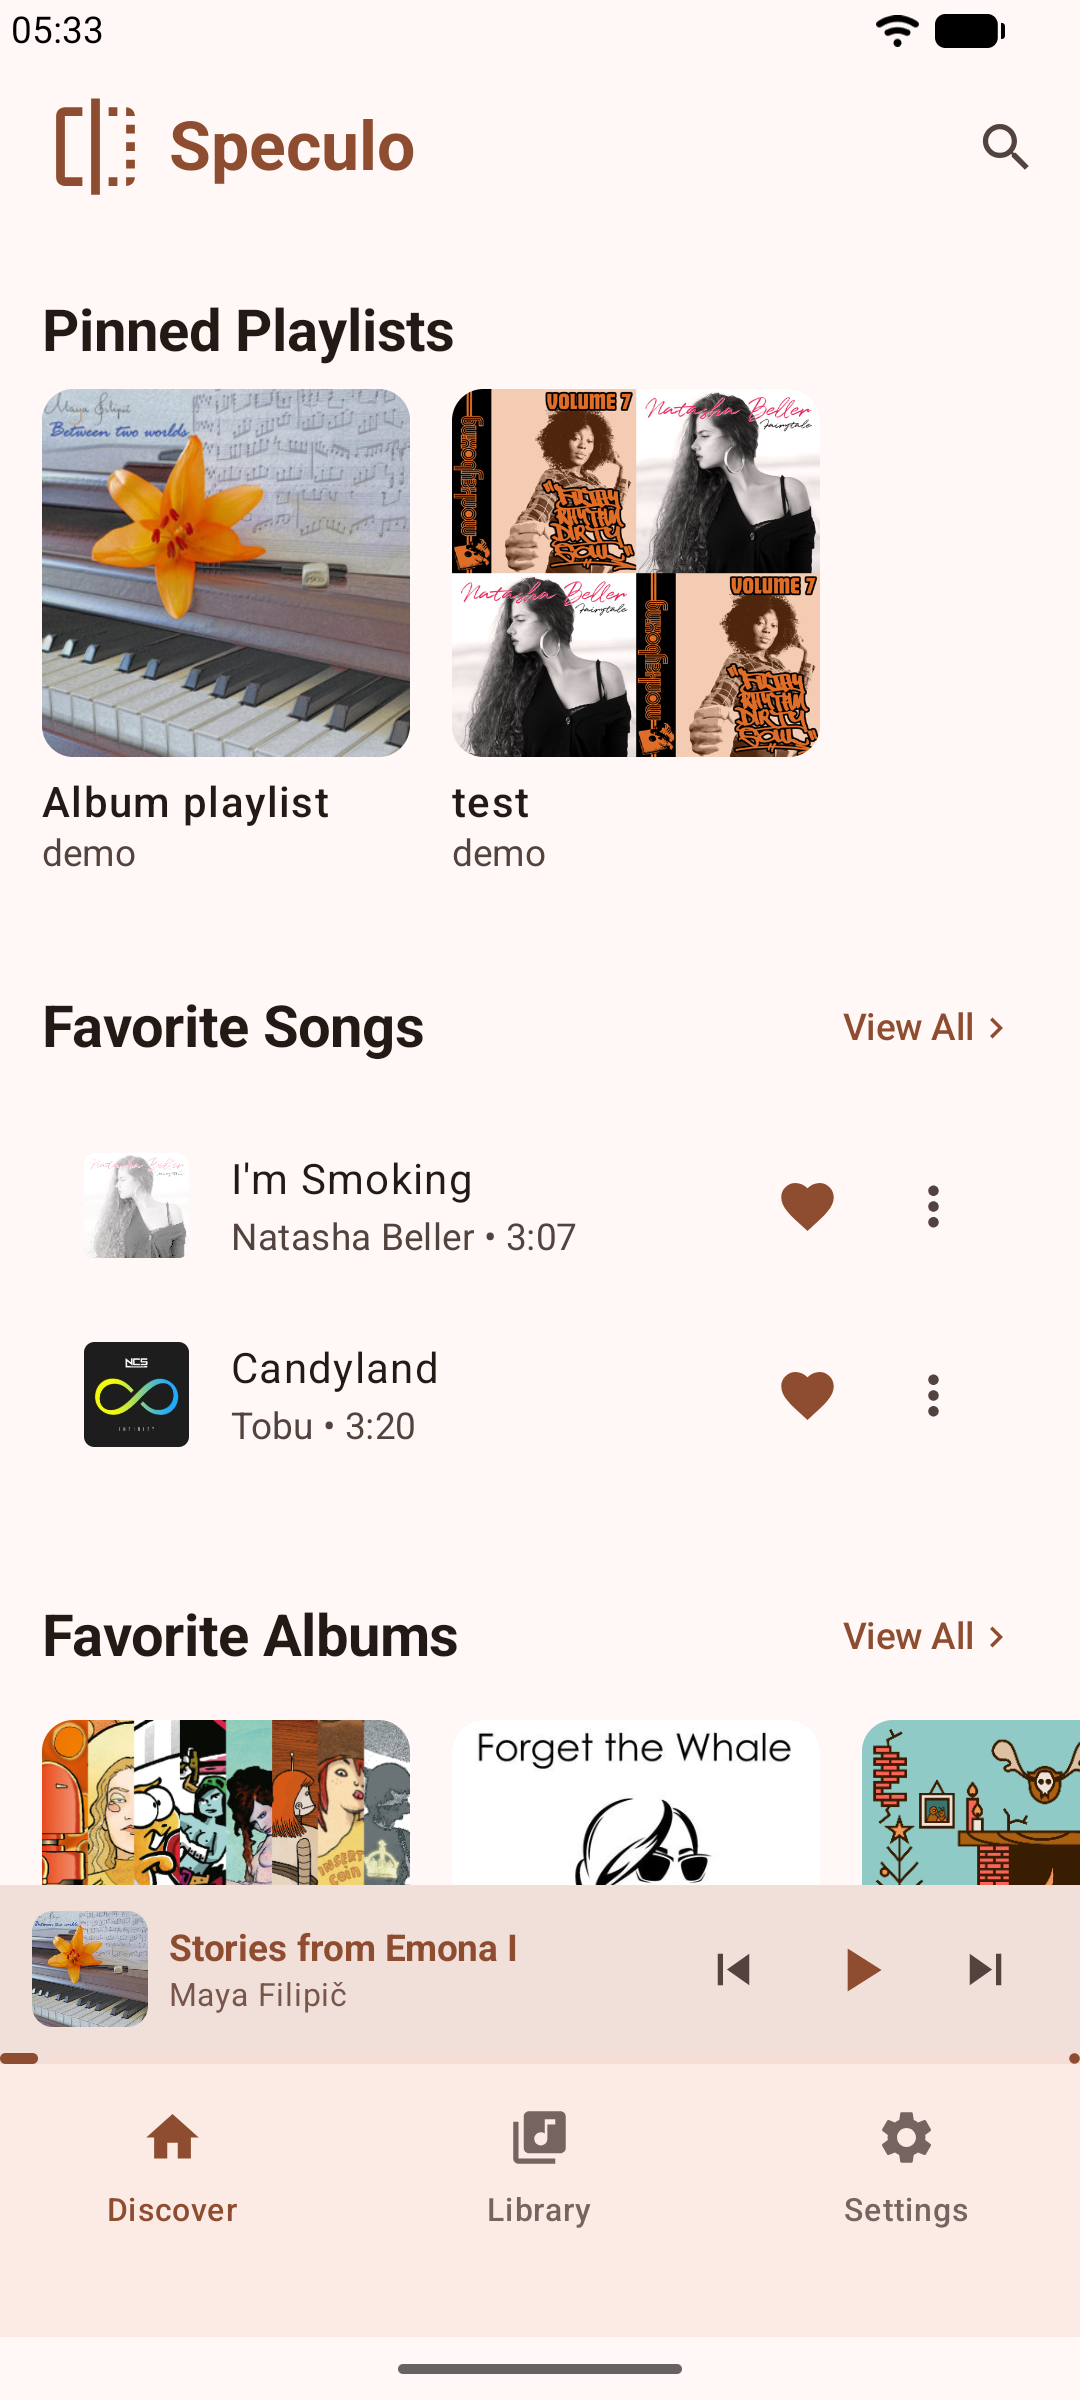
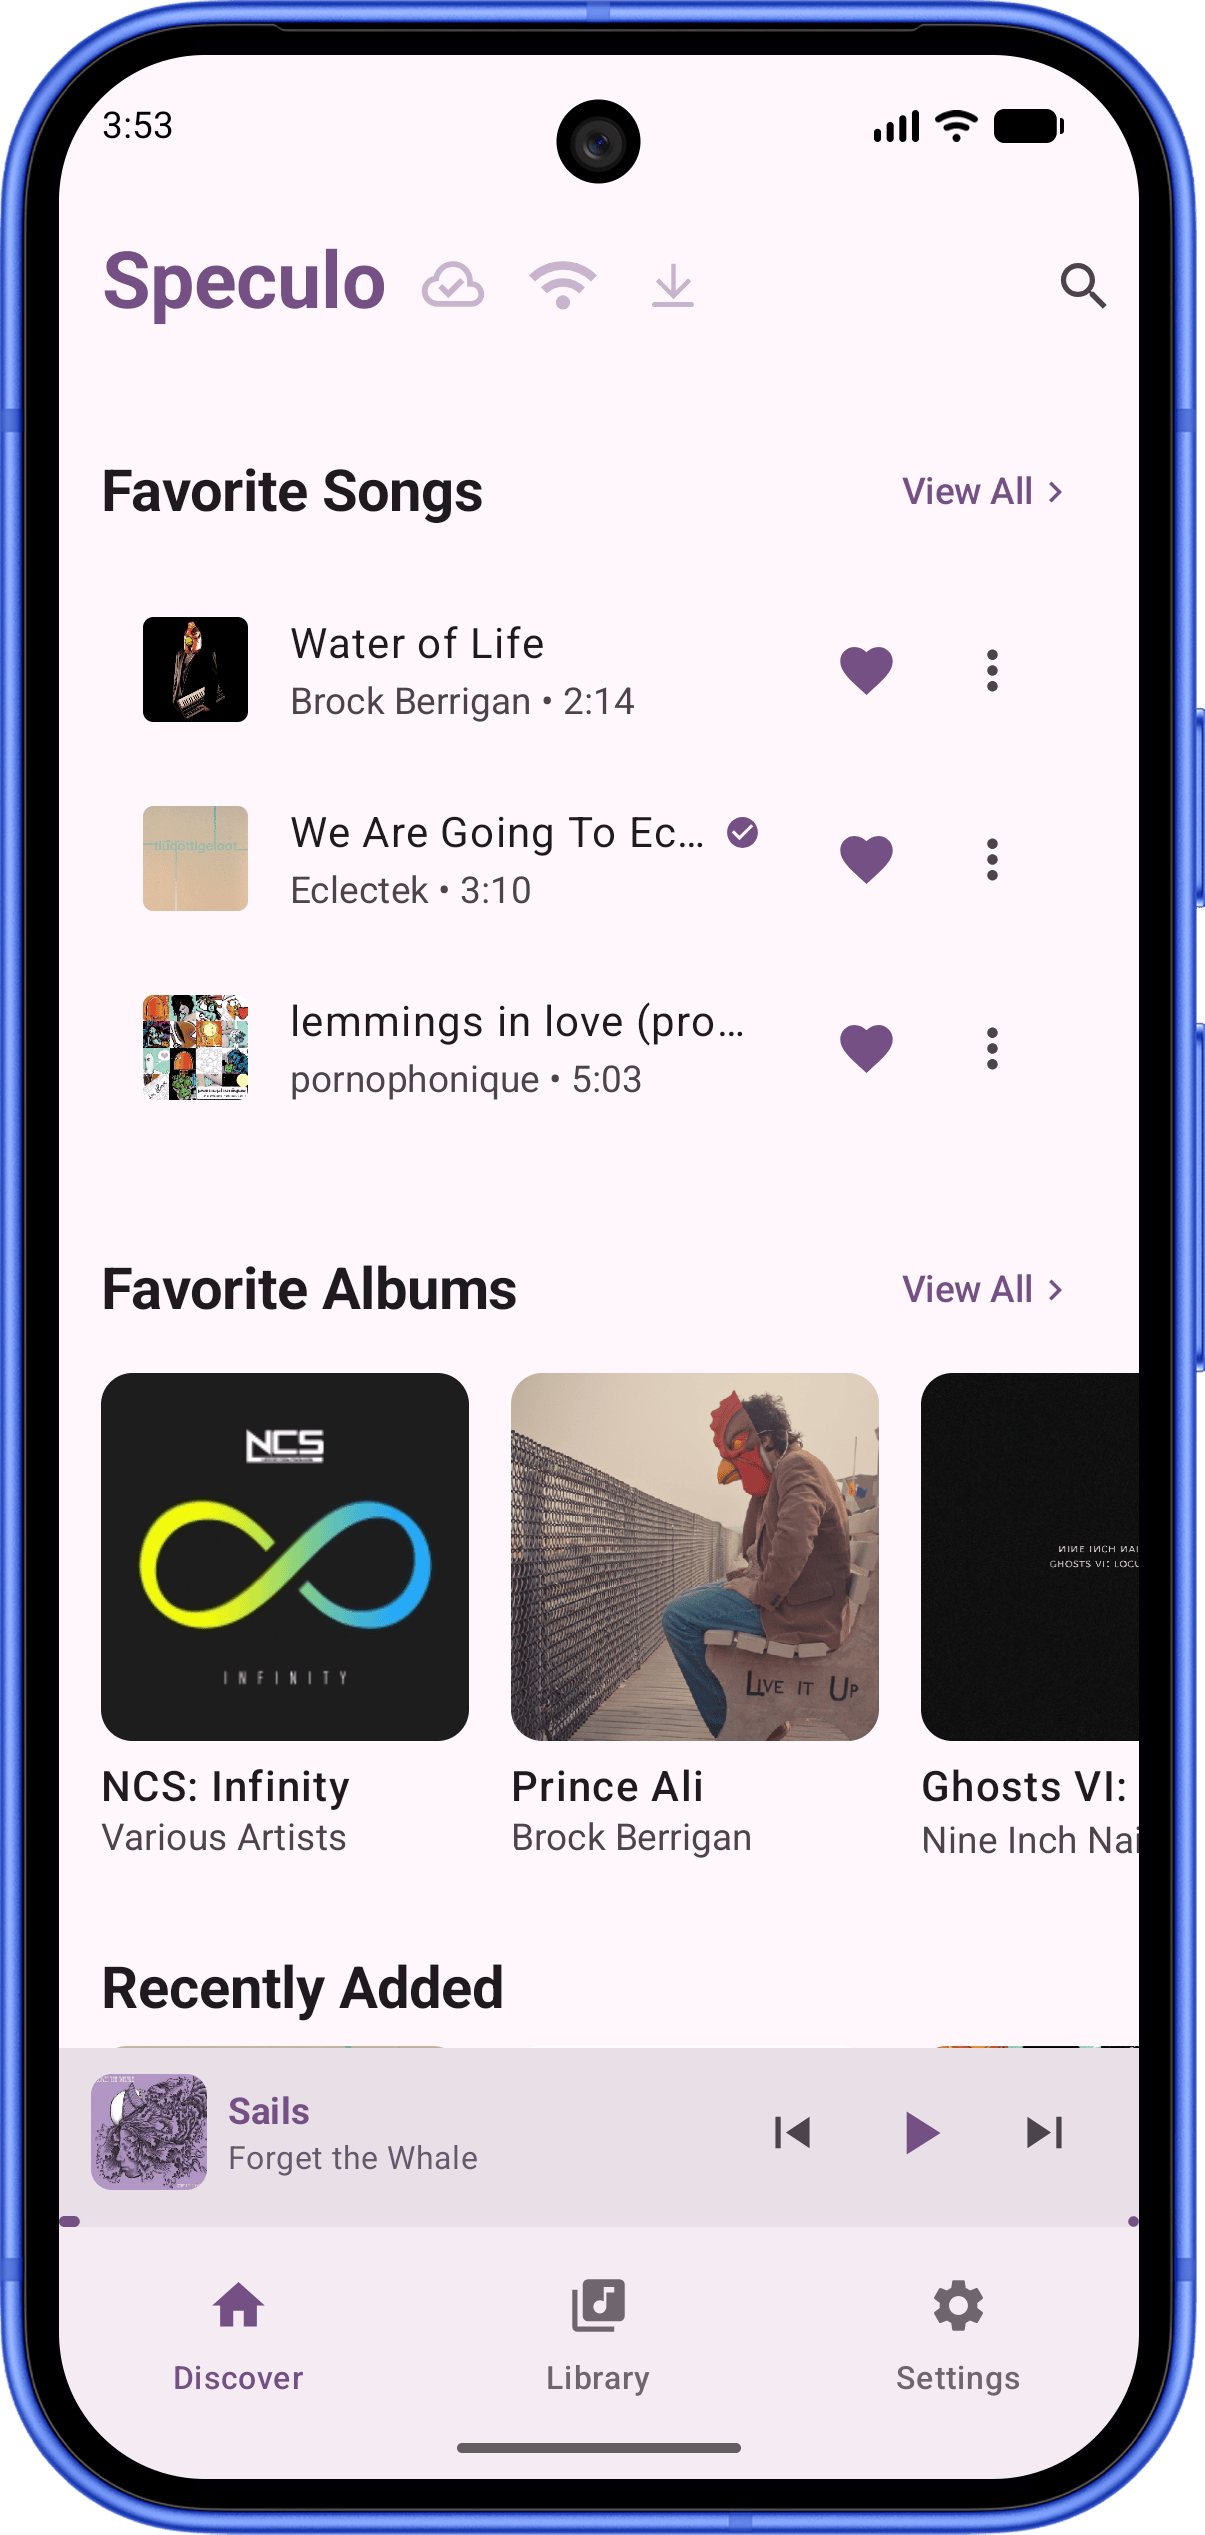
update README.md

diff --git a/README.md b/README.md
@@ -39,8 +39,9 @@ Therefore, some common features found in mainstream Subsonic clients will not be
 - [x] Refactor tablet UI layout
 - [x] Support API 37
 - [x] Provide Android X86 builds
-- [ ] Supports bilingual lyrics (work in progress)
+- [ ] Supports bilingual lyrics
 - [ ] Publish on F-Droid
+- [ ] Optimize App widgets
 - [ ] Release v1.0.0 Stable (Currently under active development, but features are becoming stable)
 
 ## Build
@@ -73,9 +74,9 @@ If you distribute a modified version of this software:
 
 ## Screenshot
 
-| Home | Player | Settings |
-|------|---------|---------|
-| ![](screenshot/discover.png) | ![](screenshot/player.png) | ![](screenshot/settings.png) |
+| <code>             Home             </code> | <code>            Player            </code> | <code>           Settings           </code> |
+| :---: | :---: | :---: |
+| <img src="screenshot/discover.png" width="250" /> | <img src="screenshot/player.png" width="250" /> | <img src="screenshot/settings.png" width="250" /> |
 
 ---
 
@@ -108,12 +109,13 @@ Speculonic 是一款使用 Android 原生技术开发的开源 OpenSubsonic / Su
 
 ## 开发路线图
 
-- [x] 提供 Github Action 构建
+- [x] 提供Github Action构建
 - [x] 重构平板电脑的 UI
 - [x] 支持API 37
-- [x] 提供 Android X86 版本
-- [ ] 支持双语歌词 (正在研究)
-- [ ] 上架 F-Droid
+- [x] 提供Android X86 版本
+- [ ] 支持双语歌词
+- [ ] 上架F-Droid
+- [ ] 完善应用Widgets
 - [ ] 发布`v1.0.0` 正式版 (当前处于积极开发阶段, 但功能已趋于稳定)
 
 ## 本地构建
